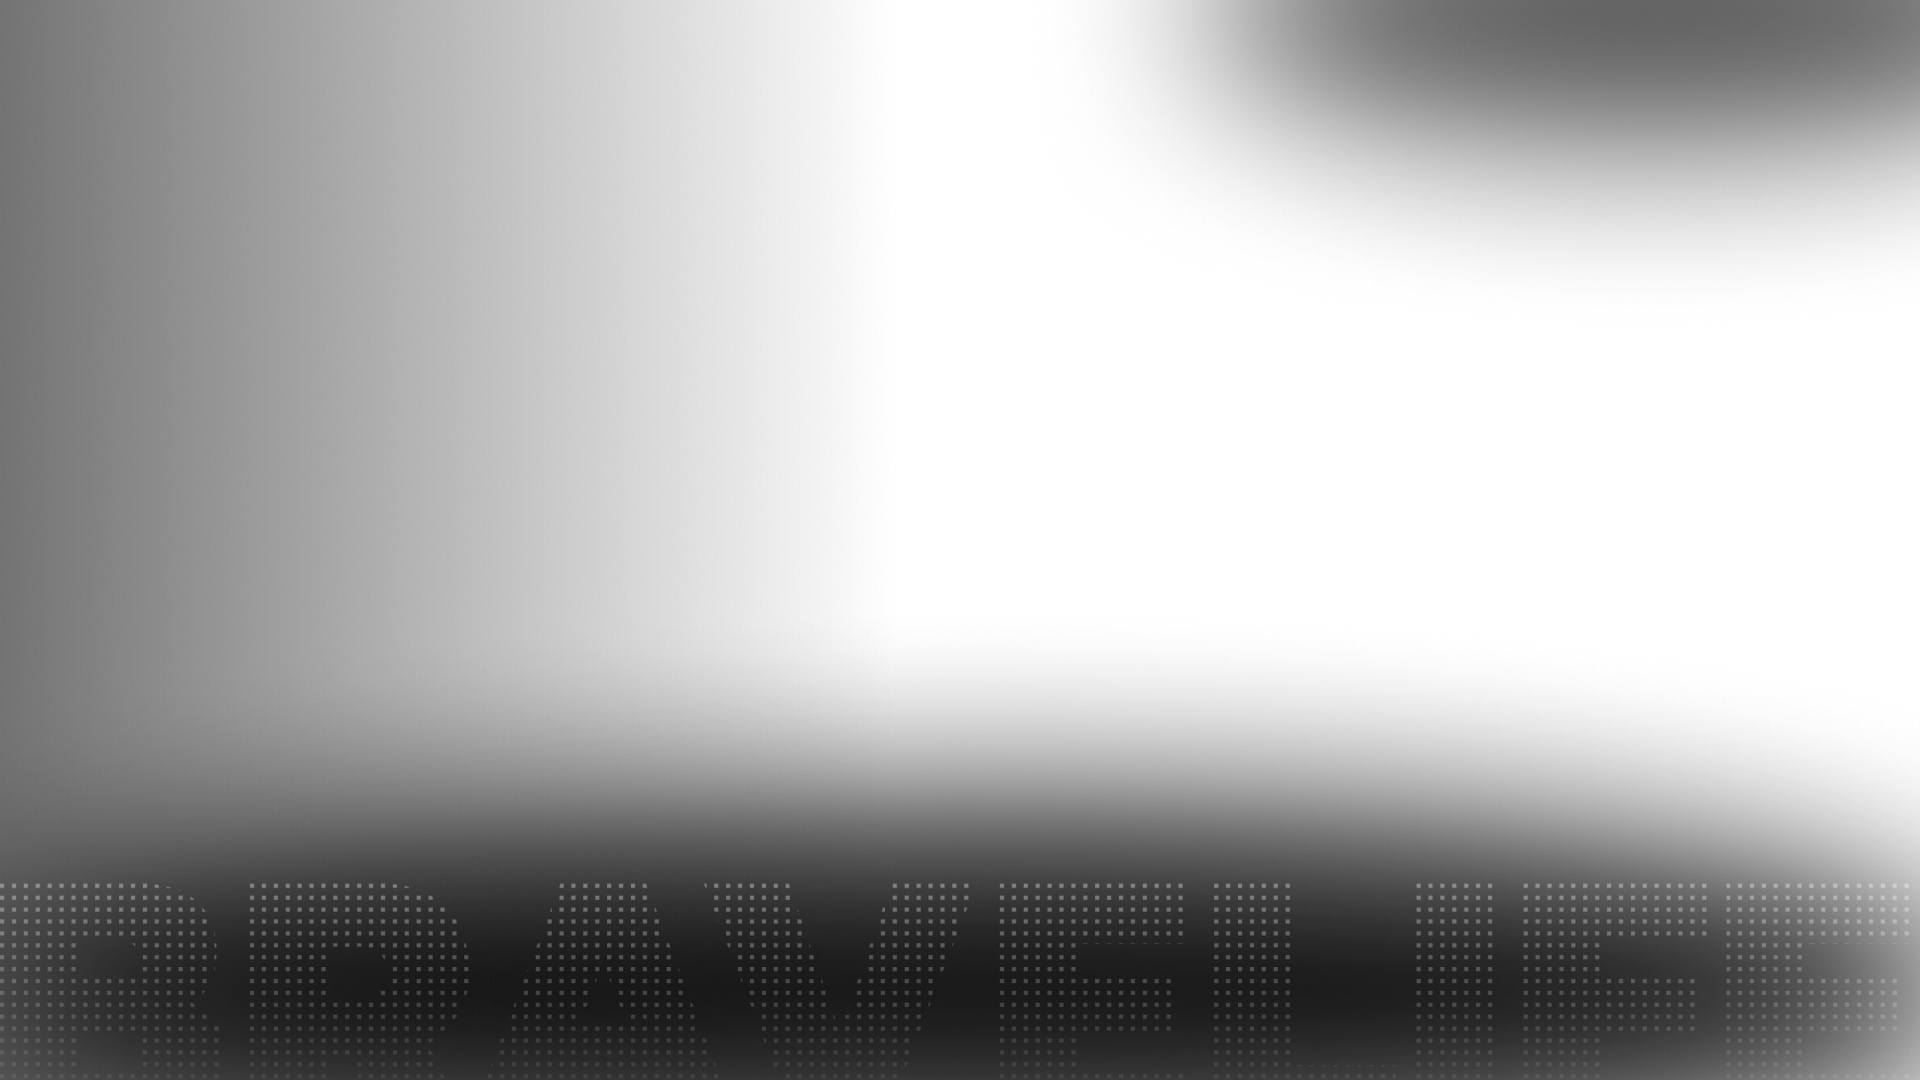
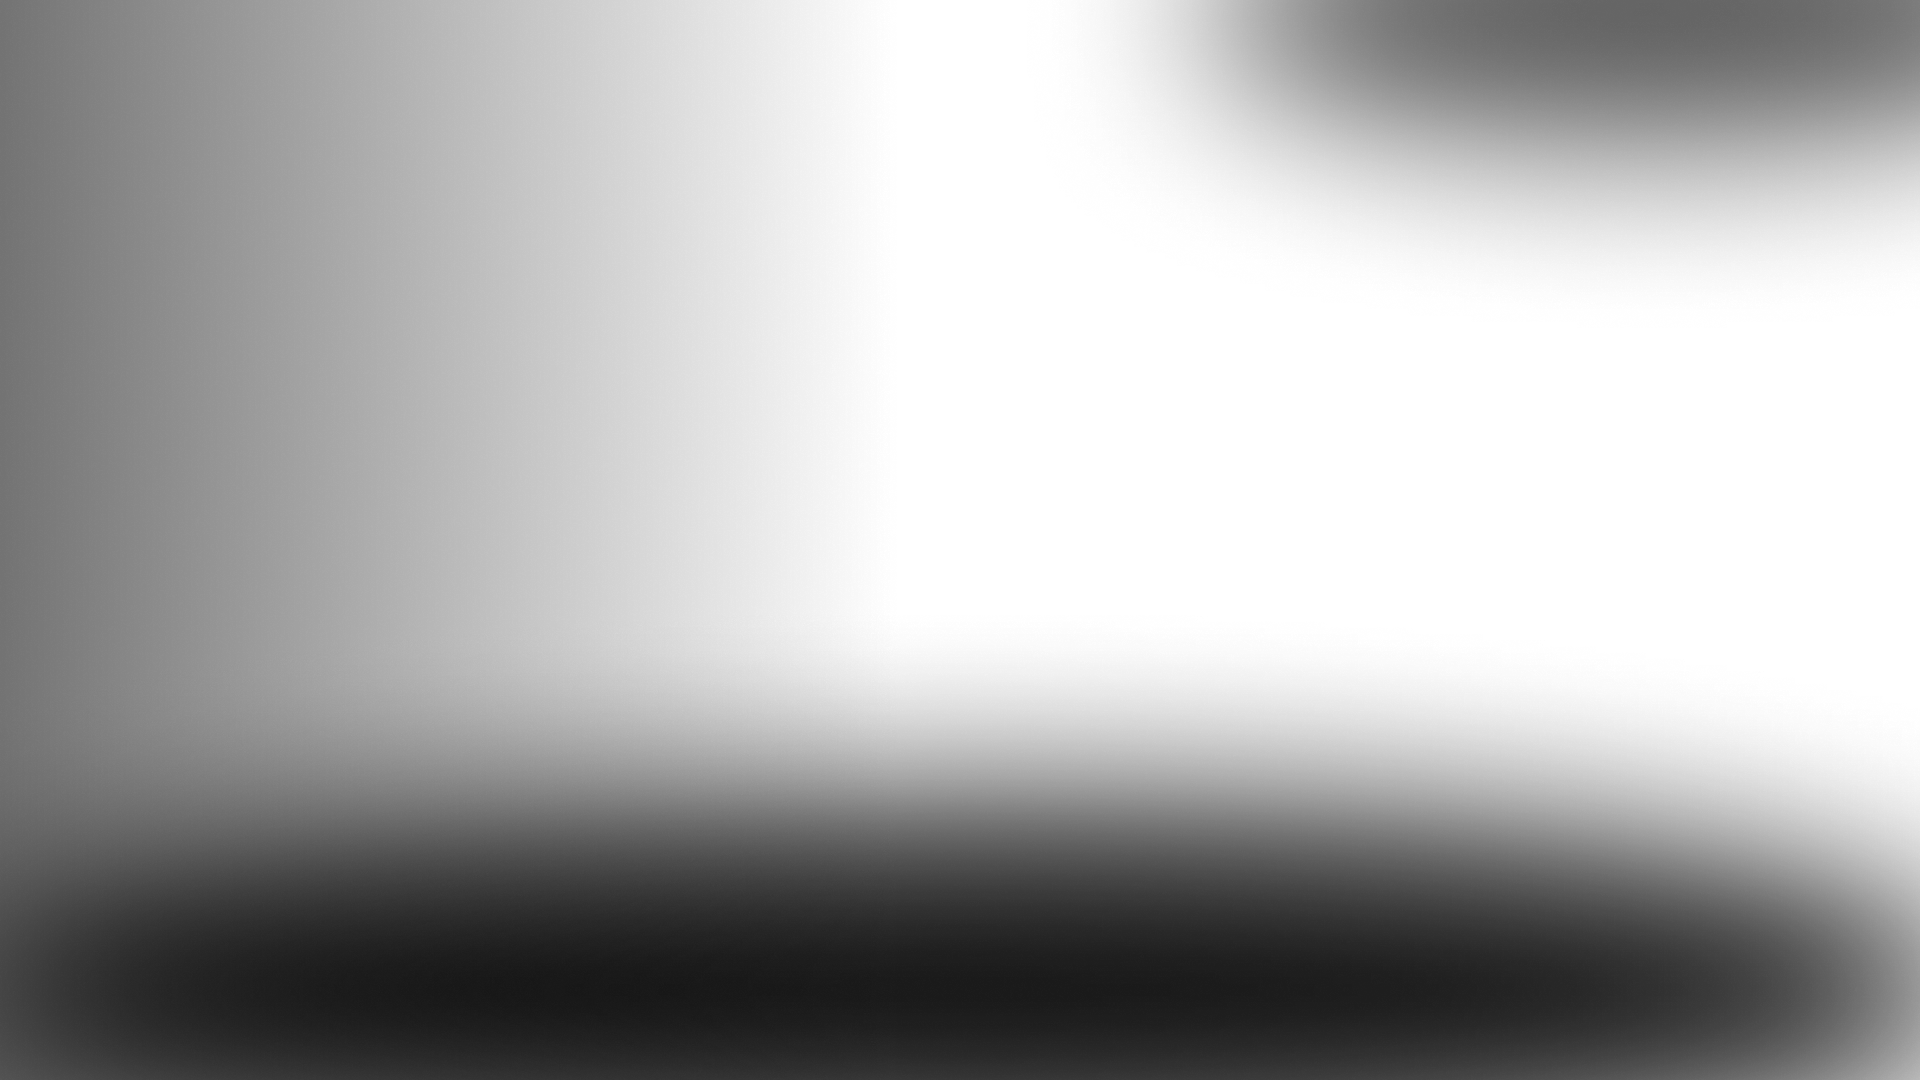
Update OBS scenes 2026-11-18 16:07

diff --git a/scene.html b/scene.html
@@ -130,6 +130,10 @@
 
   canvas.globe { position: absolute; pointer-events: none; }
 
+  /* ---------- slow continuous ticker (e.g. "BRAVELIFE • BRAVELIFE •" under the host) ---------- */
+  .ticker { overflow: hidden; }
+  .ticker .strip { position: absolute; left: 0; top: 0; height: 100%; background-repeat: repeat-x; will-change: transform; }
+
   @media (prefers-reduced-motion: reduce) { * { animation-duration: 0s !important; } }
 </style>
 </head>
@@ -142,11 +146,16 @@
 const A = 'assets/scenes/';
 /* Scene recipes — bottom to top. Positions are the Figma frame positions (1920×1080). */
 const SCENES = {
-  solo: {
+  solo: {   // Figma "OBS Scene 02 — Main Cam" (6825:531)
     title: 'Solo Host',
-    layers: [{ img: 'solo-static' }],
+    layers: [
+      { img: 'solo-static' },
+      // "bravelife flowing" ticker: starts at x 566 (right of the lower third), one 650px period,
+      // flowing left slowly (~16 px/s) and fading in at its left edge
+      { ticker: { x: 566, y: 886, h: 90, tile: 'solo-ticker-tile', tw: 650, secs: 40, fade: 140 } },
+    ],
     logo: [75, 43], live: [1692, 92],
-    lowers: [{ x: 80, y: 860, s: 1, from: 'lower' }],
+    lowers: [{ x: 80, y: 854, s: 1, from: 'lower' }],
     preview: [{ box: [0, 0, 1920, 1080], img: 'assets/preview/solo-host.png' }],
   },
   screen: {
@@ -206,6 +215,19 @@ for (const L of SC.layers) {
   if (L.fill) { const d = el(`<div class="layer"></div>`); Object.assign(d.style, { width: '1920px', height: '1080px', background: L.fill }); }
   if (L.img) el(`<img class="layer${L.drift ? ' drift' : ''}" src="${A + L.img}.png" alt="">`);
   if (L.globe) makeGlobe(L.globe);
+  if (L.ticker) {
+    const K = L.ticker, t = el(`<div class="layer ticker"><div class="strip"></div></div>`);
+    const x0 = K.x || 0;
+    Object.assign(t.style, { left: x0 + 'px', top: K.y + 'px', width: (1920 - x0) + 'px', height: K.h + 'px' });
+    if (K.fade) { const m = `linear-gradient(90deg, transparent 0, #000 ${K.fade}px)`; t.style.webkitMaskImage = m; t.style.maskImage = m; }
+    const s = t.firstChild;
+    // tile starts exactly where the Figma ticker starts (x0), then loops one period to the left
+    Object.assign(s.style, { left: '0px', width: (1920 - x0 + 2 * K.tw) + 'px', backgroundImage: `url(${A + K.tile}.png)`, backgroundSize: `${K.tw}px ${K.h}px` });
+    // move left forever, wrapping every tile (seamless because the tile repeats). Frame-driven = smooth + reliable in OBS.
+    const speed = K.tw / K.secs, t0 = performance.now();
+    const step = now => { const x = ((now - t0) / 1000 * speed) % K.tw; s.style.transform = `translate3d(${-x.toFixed(2)}px,0,0)`; requestAnimationFrame(step); };
+    requestAnimationFrame(step);
+  }
   if (L.rainbow) {
     const R = L.rainbow, r = el(`<div class="layer rainbow${R.b ? ' b' : ''}"></div>`);
     Object.assign(r.style, { top: R.top + 'px', height: R.h + 'px', opacity: R.op });
